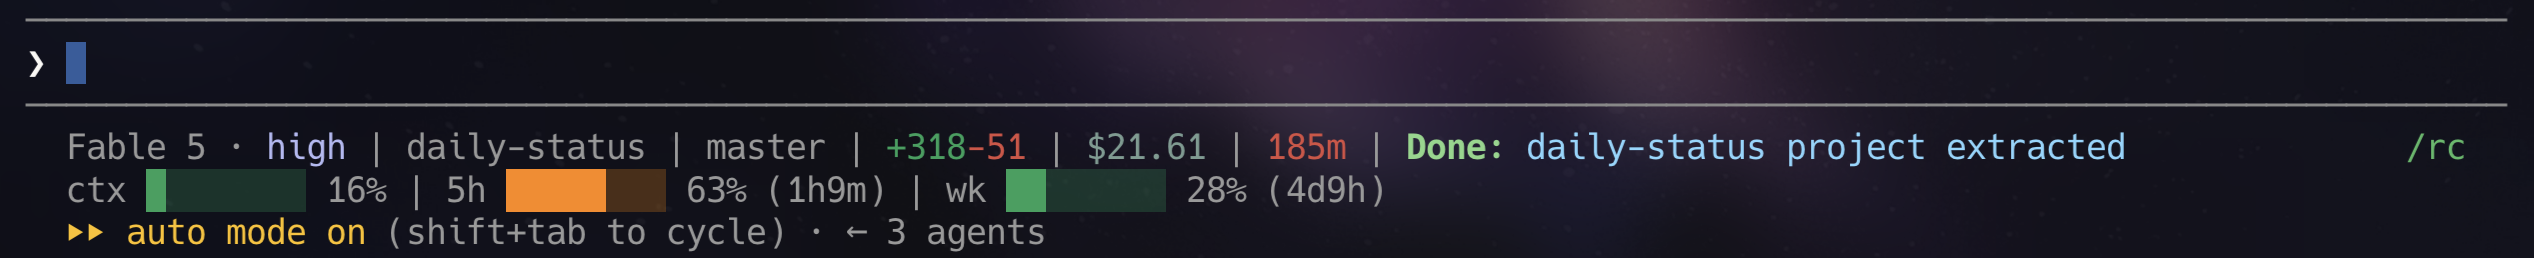
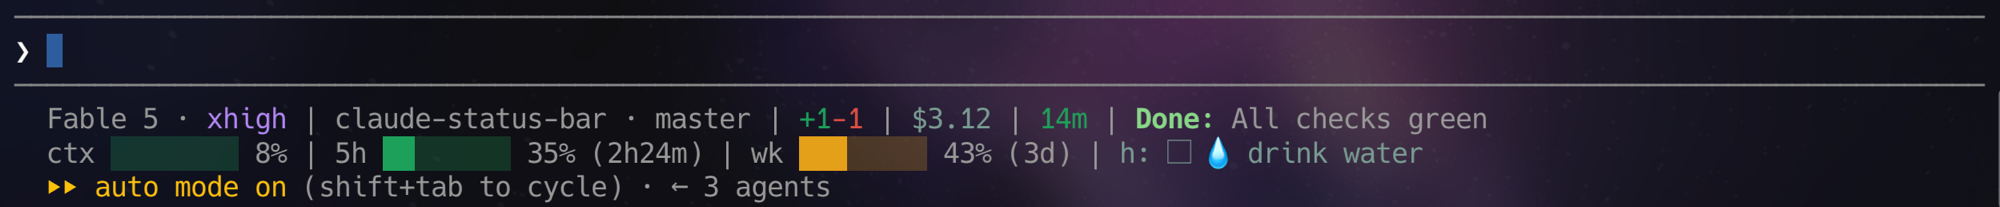
docs: refresh screenshot, add social preview card

Changed region(s): [[0.0, 0.0, 0.992, 1.0], [0.93, 0.4638, 1.0, 0.9855], [0.0, 0.1739, 0.031, 0.3188]]

diff --git a/README.md b/README.md
@@ -72,20 +72,22 @@ Subject text renders in light blue (117); lines truncate at 48 chars.
 ## What the two lines show
 
 ```
-Refactoring the parser | Fable 5 · high | claude-status-bar | master ↑2 | +315-50 | $20.86 | 178m | Exec: Statusline second line
-ctx ██████░░ 78% | 5h ████░░░░ 52% (2h14m) | wk █░░░░░░░ 23% (4d) | h: ☐ 💧 drink water · 👀 3 💧 2
+Fable 5 · xhigh | claude-status-bar · master | +1-1 | $3.12 | 14m | Done: All checks green
+ctx ░░░░░░░░ 8% | 5h ██░░░░░░ 35% (2h24m) | wk ███░░░░░ 43% (3d) | h: ☐ 💧 drink water
 ```
 
 | Line | Shows |
 |------|-------|
-| 1 | active to-do, model · reasoning effort, project, git branch with `↑↓` vs upstream, lines added/removed, session cost, elapsed minutes, **phase: subject** |
+| 1 | active to-do, model · reasoning effort, project · git branch (`↑↓` vs upstream), lines added/removed, session cost, elapsed minutes, **phase: subject** |
 | 2 | context window used (as a share of the 80% auto-compact budget), 5-hour and weekly rate limits with reset countdowns, health nudge with today's tally |
 
 Every segment is optional — it only renders when Claude Code supplies the data (no upstream
-branch, no `↑↓`; no rate-limit payload, no bars).
+branch, no `↑↓`; no rate-limit payload, no bars; no in-progress to-do, no task label).
 
 Health nudges rotate through eyes (20-20-20), water, movement and daylight, and stay quiet
-while you're idle. `bin/claude-code-status.js done` checks off the active one.
+while you're idle. To check one off, send `d` as your whole next prompt — the nudge hook
+intercepts it and ends the turn, so the ack reaches no model and costs no tokens.
+`bin/claude-code-status.js done` does the same from a shell.
 
 ## Token budget (measured)
 
